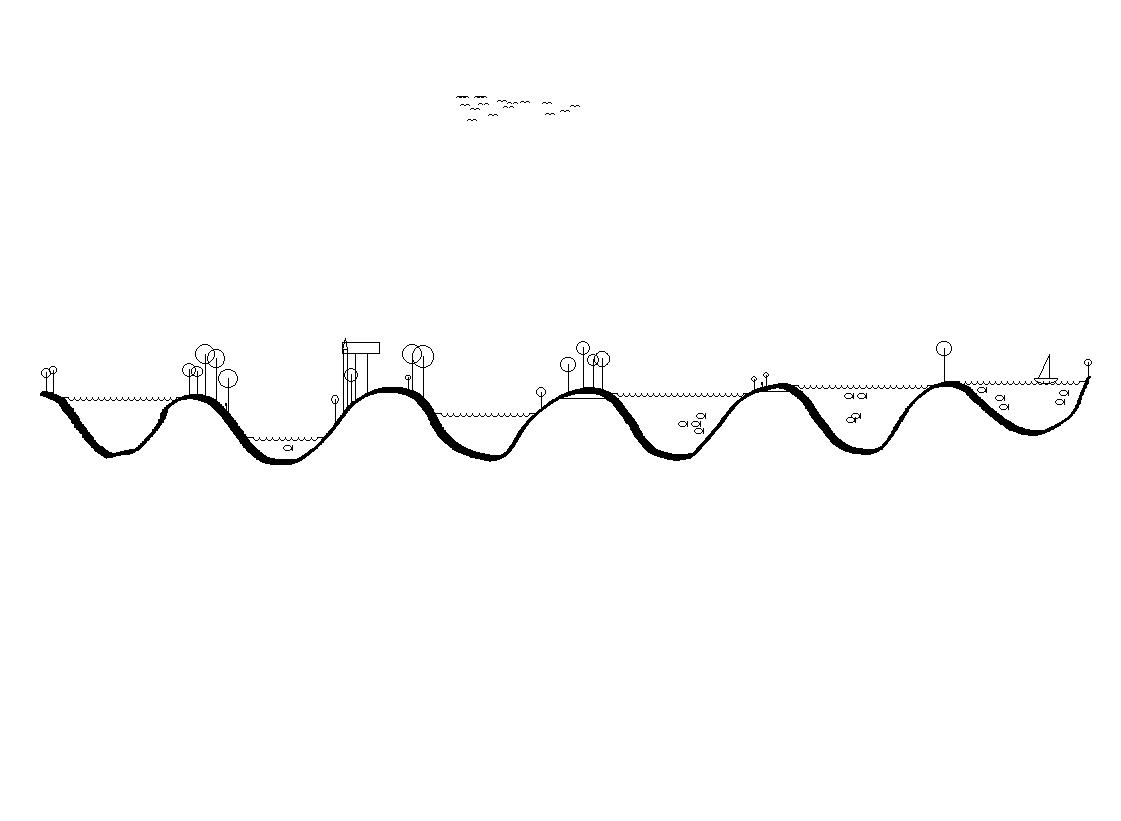
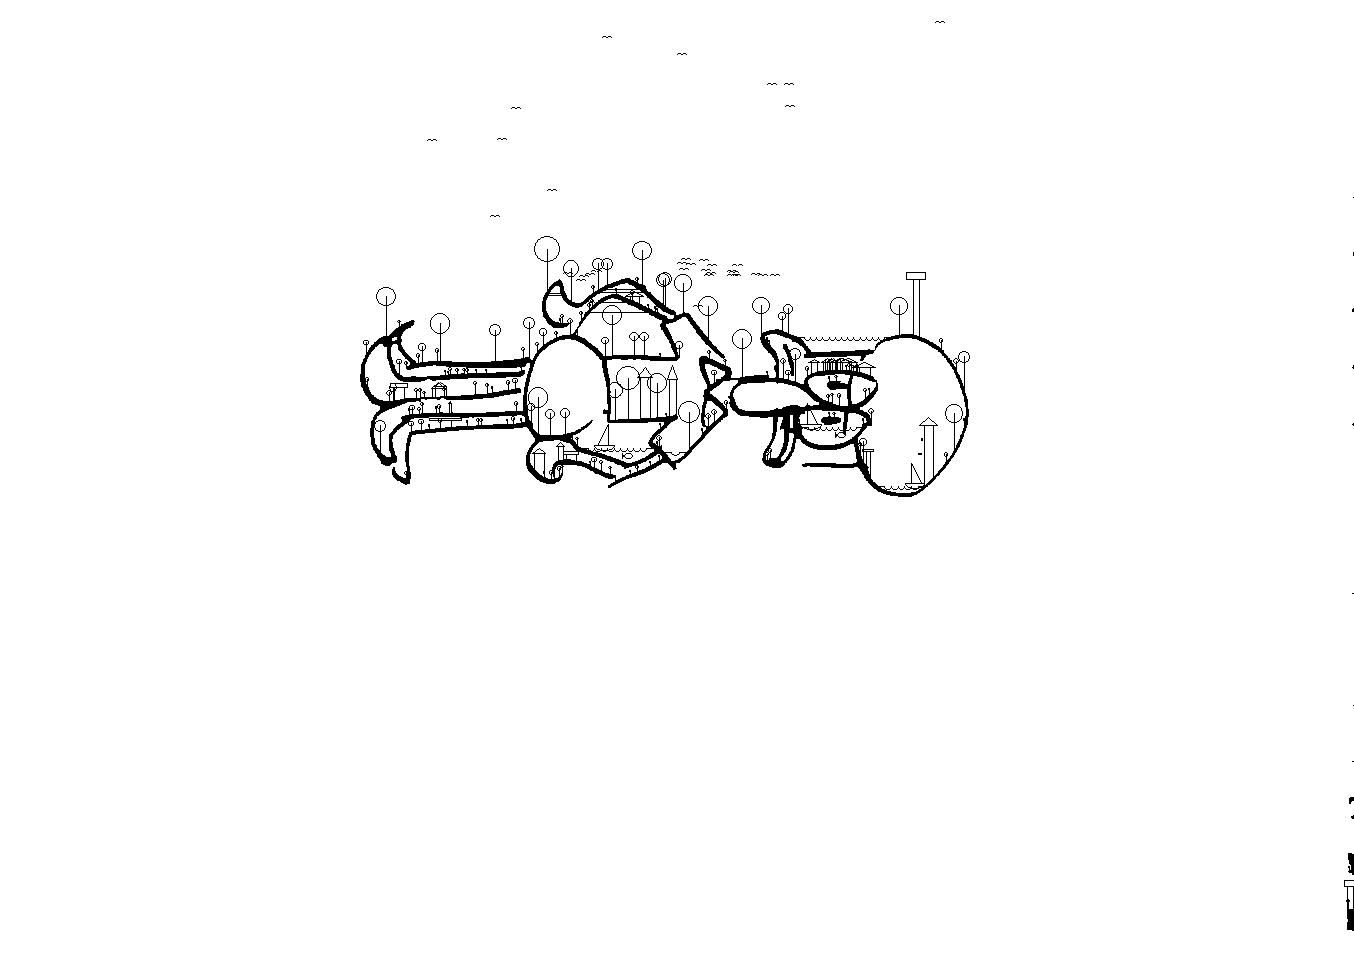
Perfected alignment, completed base functionality

diff --git a/src/collaborator.py b/src/collaborator.py
@@ -20,22 +20,22 @@ import traceback
 xDef = 4656  #resolution of the camera
 yDef = 3496
 
-thresh = 75  #higher means more land
+thresh = 157  #higher means more land
 
 #controls the size of the cropped in image
-cropXmin = 1843
-cropYmin = 1312
-cropW = 1121
-cropH = 821
+cropXmin = 1055
+cropYmin = 1615
+cropW = 1354
+cropH = 965
 
-S = 248
-xc = 47
-yc = 58
+S = 454
+xc = 118
+yc = 100
 isDrawing = False  #True when the Axidraw is running
 isRunning = False  #True when runCollaboration thread is running
 
 useVid = True  # Choose whether to use camera or internal file for capture
-useAxi = False  # For bugfixing while away from axidraw, program only works correctly with val is True
+useAxi = True  # For bugfixing while away from axidraw, program only works correctly with val is True
 
 
 
@@ -64,15 +64,15 @@ def on_cropH(val):
 
 def on_xstrackbar(val):
     global xc
-    xc = val/10
+    xc = val/10 - 10
 
 def on_ystrackbar(val):
     global yc
-    yc = val/10
+    yc = val/10 - 10
 
 def on_Strackbar(val):
     global S
-    S = val/1000
+    S = val/2000
 
 
 
@@ -203,7 +203,7 @@ def previewSurface(draw, tracedLine, overhang):
                 (d, villageInfo) = pr.drawVillage(draw, tracedLine, overhang, i)
                 subReceipt.extend(villageInfo)
 
-            elif featureGen < 0.5:#0.17: # 5% lake
+            elif featureGen < 0.17: # 5% lake
                 (d, lakeInfo) = pr.drawLake(draw, tracedLine, i, x, y, 20, 150, 6)
                 if lakeInfo != -1:
                     subReceipt.append(("L", lakeInfo))
@@ -357,7 +357,7 @@ if useVid:
         raise IOError("Cannot open webcam")
     
     vid.set(cv.CAP_PROP_AUTO_EXPOSURE, 0.25)
-    vid.set(cv.CAP_PROP_EXPOSURE, -7)
+    vid.set(cv.CAP_PROP_EXPOSURE, -8)
 else:
     # Gets the image file
     parser = argparse.ArgumentParser(description='Code for Finding contours in your image tutorial.')
@@ -397,17 +397,29 @@ while True:
             print("Failed to grab frame")
             break
         
-        frame = cv.resize(frame[cropYmin:cropYmin+cropH, cropXmin:cropXmin+cropW], (cropW, cropH))
-        frame = cv.flip(frame, -1)
+        fullHeight, fullWidth = frame.shape[:2]
+        yMin = fullHeight - cropYmin
+
+        #gets the proper crop and rotation
+        frame = cv.resize(frame[cropXmin:cropXmin+cropW, yMin:yMin+cropH], (cropH, cropW))
+        frame = cv.rotate(frame, cv.ROTATE_90_CLOCKWISE)
+
     elif not useVid:
         frame = src
         
     #generates the frame that will be interpreted by the collaborator
     processed_frame = preprocess_image(frame, thresh)
 
+    #scales preview to desired window size
+    windowWidth = 1000
+    croppedHeight, croppedWidth = frame.shape[:2]
+    scale = windowWidth / croppedWidth
+    new_w = windowWidth
+    new_h = int(croppedHeight * scale)
+    display_frame = cv.resize(frame, (new_w, new_h), interpolation=cv.INTER_AREA)
 
     #shows live image
-    cv.imshow('Positioning', frame)
+    cv.imshow('Positioning', display_frame)
 
     #shows the frame as it will be interpreted by the collaborator
     cv.imshow('Contours and Correction', np.where(processed_frame == 0, 255, 0).astype(np.uint8))
